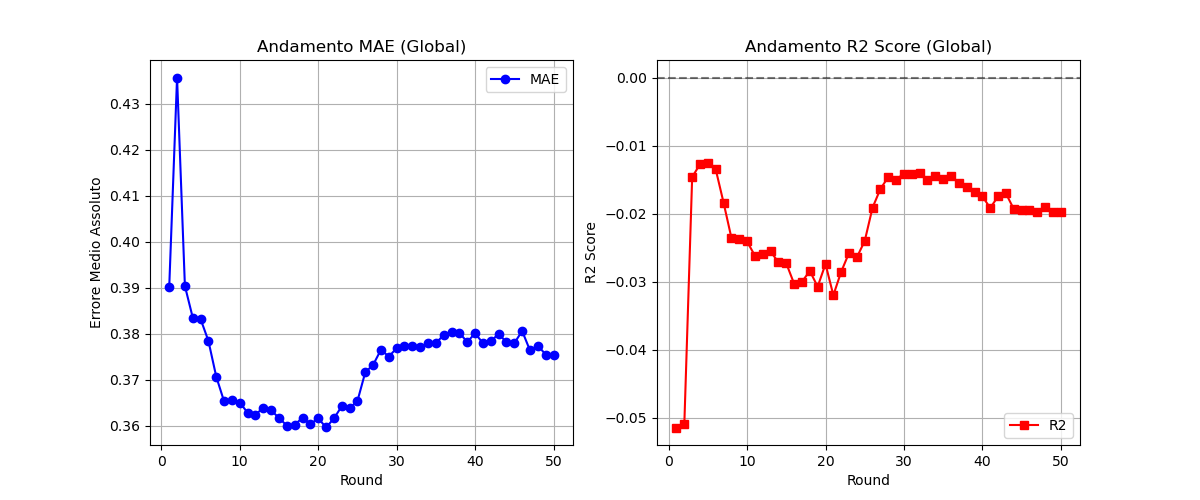
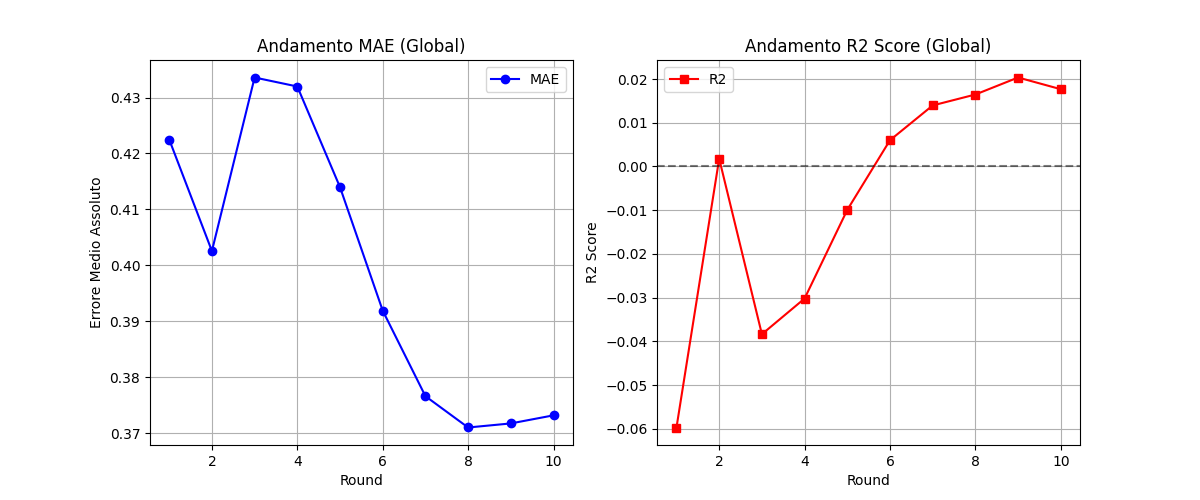
train

diff --git a/src/model/transformer/train.py b/src/model/transformer/train.py
@@ -241,8 +241,10 @@ def main():
         logger.info(f"Epoch {epoch+1}, Train Loss: {train_loss:.4f}, Val Loss: {val_loss:.4f}")
 
     results = evaluate(model, test_loader, device, config['data']['output_window'], feature_cols, target_cols)
-    for name, mae, rmse, r2 in results:
-        logger.info(f"Results for {name}: MAE={mae:.4f}, RMSE={rmse:.4f}, R2={r2:.4f}")
+    # for name, mae, rmse, r2 in results:
+    #     logger.info(f"Results for {name}: MAE={mae:.4f}, RMSE={rmse:.4f}, R2={r2:.4f}")
+    for name, mae, rmse, r2, corr in results:
+        logger.info(f"Results for {name}: MAE={mae:.4f}, RMSE={rmse:.4f}, R2={r2:.4f}, Corr={corr:.4f}")
 
 if __name__ == "__main__":
     main()

diff --git a/src/model/transformer/fl_client.py b/src/model/transformer/fl_client.py
@@ -56,7 +56,7 @@ class FLClient(fl.client.NumPyClient):
         self.set_parameters(parameters)
         
         # Prendi le epoche dal config o usa un default
-        local_epochs = 3
+        local_epochs = self.config['training']['epochs']
         train_loss = 0.0
         
         logger.info(f" [Client {self.place_id}] Inizio Round - Training locale...")

diff --git a/src/model/transformer/fl_server.py b/src/model/transformer/fl_server.py
@@ -10,7 +10,7 @@ logging.basicConfig(level=logging.INFO)
 logger = logging.getLogger(__name__)
 logger.info("Starting Flower server...")
 config = load_config("config.yaml")
-rounds = 50
+rounds = config['training']['rounds']
 print(f"Configured for {rounds} rounds of federated learning.")
 
 def weighted_average(metrics):
